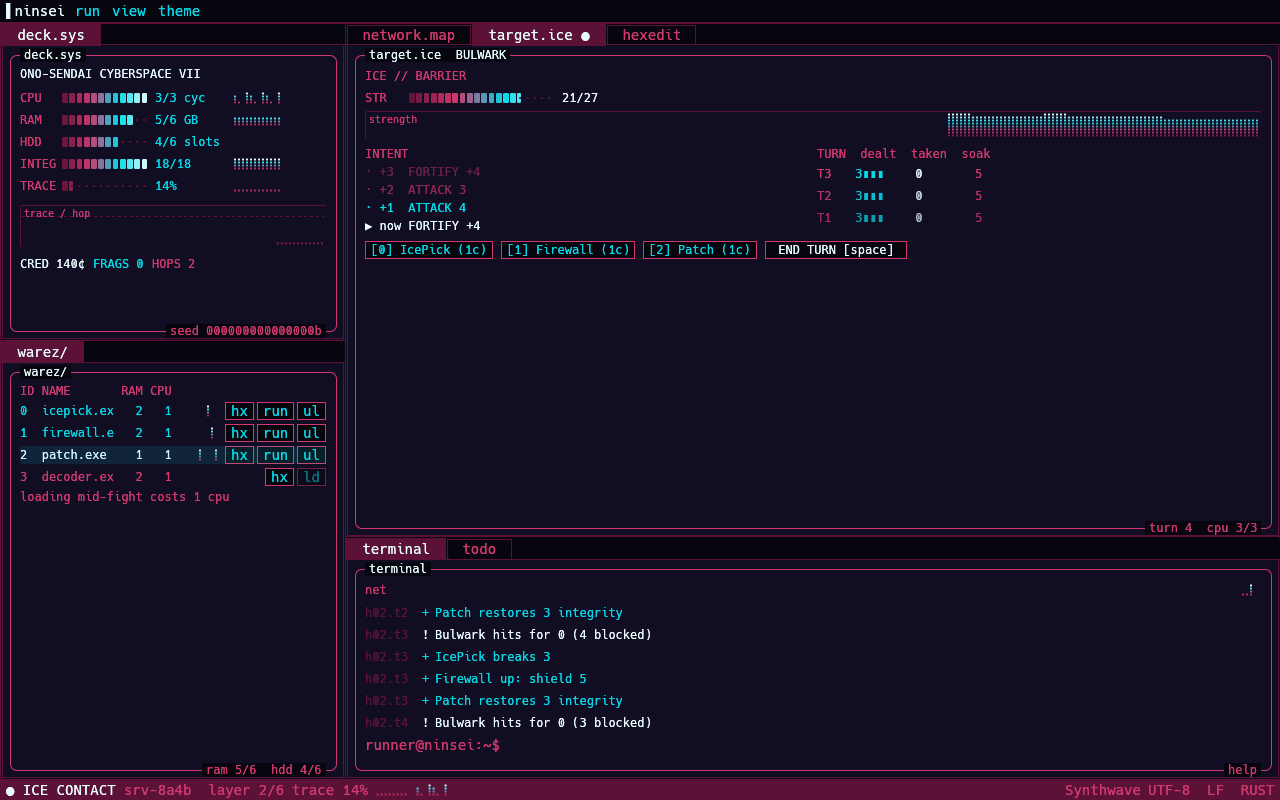
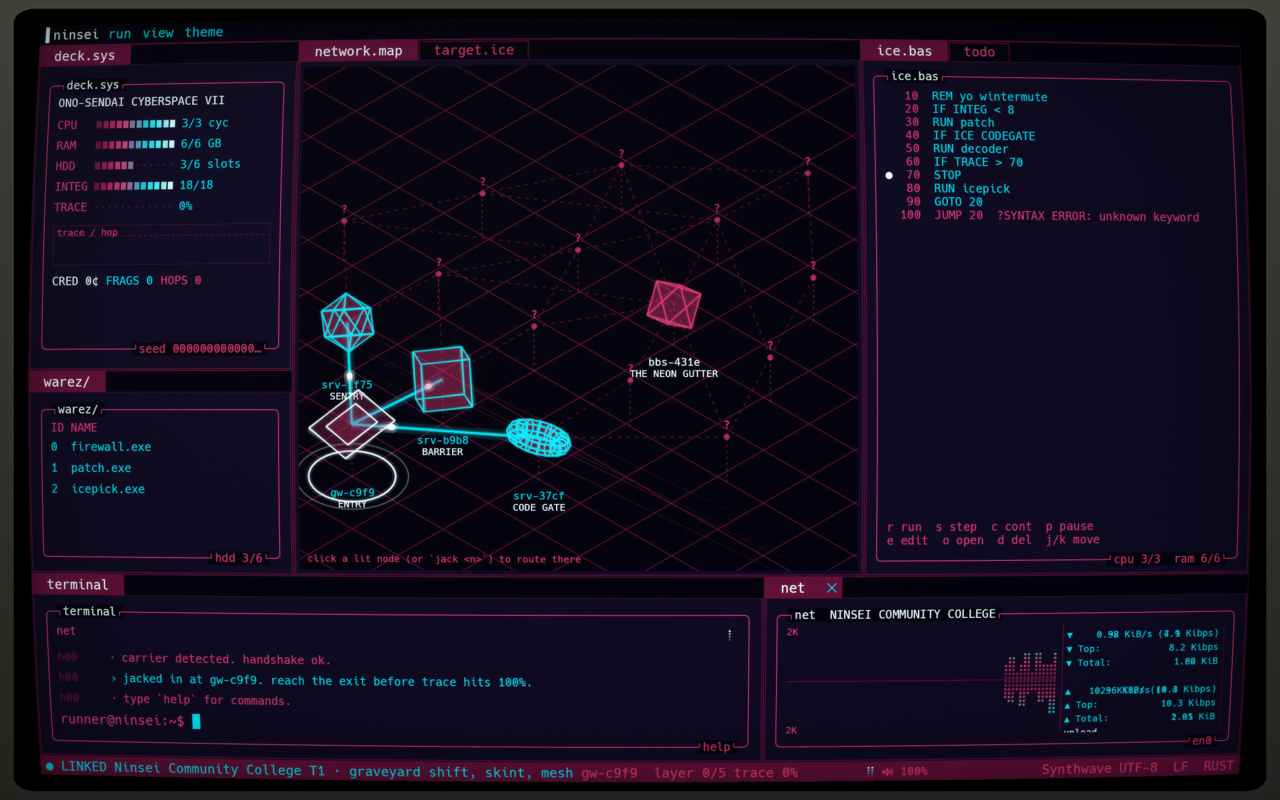
docs: step 6 — shots, review, docs
ice.bas in and out of a fight on amber and Synthwave; the deck.sys box gets more of the left column (the review's one fix); design.md marks the Ono-Sendai built, architecture.md says how the tile works.

diff --git a/crates/app/src/chrome.rs b/crates/app/src/chrome.rs
@@ -210,8 +210,8 @@ impl ChromeView for Classic {}
 mod btop_tiles {
     pub const LEFT: f32 = 0.22;
     pub const CENTRE_OF_REST: f32 = 0.59;
-    pub const OVER_TERMINAL: f32 = 0.72;
-    pub const DECK: f32 = 0.5;
+    pub const OVER_TERMINAL: f32 = 0.74;
+    pub const DECK: f32 = 0.62;
     pub const TERMINAL_OF_BOTTOM: f32 = 0.6;
 }
 

diff --git a/docs/architecture.md b/docs/architecture.md
@@ -88,12 +88,12 @@ Monitors and decks live in `data/hub/hardware.ron` (`HardwareDef::validate`); wh
 
 ## The run screen
 
-- **Chromes are plug-ins.** A firmware's `hardware::Chrome` picks how the run screen is dressed; `crates/app/src/chrome.rs` maps it to a `ChromeView` (`chrome::view`): one method per pane, plus tab titles, menus (arranged from shared `MenuPart`s), the status line, an optional bar under the panes, keys, an overlay and the default layout. Every method defaults to Classic, so a new chrome is a `Chrome` variant plus a `ChromeView` that overrides only what it changes. Never test the chrome in a pane; ask the view. `btop.rs` (`Chrome::Btop`), `suite.rs` (`Chrome::Suite`, the Hosaka) and `stack.rs` (`Chrome::Stack`, the Sense/Net: HyperCard, 1-bit; `ChromeView::one_bit` keeps glitches from splitting colour, `ChromeView::palette` folds the run to ink on paper, `ChromeView::dock_style` dresses the panels as HyperCard windows, and its **Script pane** is the **Script card**, on screen the whole run beside the ICE card: `ninsei_core::stack_fight::card` decides it (with `Card::fighting` and `Card::budget_words`: the budgets left this turn in a fight, the deck's limits a turn outside one, where Step, Run and Pause stay greyed) (the program's lines as `Block`s with their `Field`s, pop-up menus that list only the disk and number fields, the ▶ on the line about to run, which of Step, Run and Pause can be pressed, and the budgets in words), and `stack_fight::{set_field, add, insert_before, remove, swap}` turn an edit into one `Action::Program` with one line rewritten, so the card holds nothing of its own; `stack.rs` only draws it with the Liza kit (`popup_menu`, `text_field`, `dotted`, `push_button`), scrolling rows of their own heights a whole row at a time, a palette chip clicked or dragged (egui's drag and drop, `BlockKind` the payload) to add a block, a click on a block selecting it (view state in egui memory, by line number, dropped when the line goes) for the palette's move and clear boxes (`stack_fight::moved_to` says where a moved block lands, so the selection follows it), the Deck card's bars sized to the column (`bar_width`), and its keys through `ChromeView::keys` before the shared hotkeys: Enter presses Run, Esc pauses a running program and never closes anything) are the three so far; the suite's rules (sheet sorting, formulas, axes, work-order totals, dialogs via `suite::Watch`) live in core's `suite.rs`. The btop chrome (`crates/app/src/btop.rs`) keeps its timings in `btop::anim` and colours its gradients with `btop::ramp` (`faint → dim → fg → bright`); dot-graph maths is `history::plot`, tested in core; the font has no braille, so the app paints the dots. Both chromes lay their frames out on the kit's cells in their own 12pt type: btop's boxes (`btop::boxed`: the border through the outer cells, the title turned into the top edge `┐title┌` and a note turned up into the bottom one `┘note└`, both cut with `…` to fit, the body 10px and 12px inside the line as before, and always drawn, however small the box) meters (`Cells::gauge` with dotted unlit cells: a little thinner than the old meter and square-cornered, the kit's cell) and the warez table, whose NAME is as wide as the widest real name, dropping CPU before it would slice one; the suite's document window (`suite::window`: the kit's double frame with `[■]` and `[n]` set in its top edge, a heading row only for a document's own title, never repeating its tab, a 5px shadow, and the body always drawn), its status line and F-key legend (one-row kit sheets), its dialogs' bodies (a sheet, lines wrapped), its activity log (whole rows of cells through `ScrollArea::show_rows`, only the rows in view painted), and its spreadsheet, whose columns come from core's `suite::sheet_widths` (each its widest real value and its header with a sort arrow, a cell of padding either side), so nothing is cut at a clip rect.
+- **Chromes are plug-ins.** A firmware's `hardware::Chrome` picks how the run screen is dressed; `crates/app/src/chrome.rs` maps it to a `ChromeView` (`chrome::view`): one method per pane, plus tab titles, menus (arranged from shared `MenuPart`s), the status line, an optional bar under the panes, keys, an overlay and the default layout. Every method defaults to Classic, so a new chrome is a `Chrome` variant plus a `ChromeView` that overrides only what it changes. Never test the chrome in a pane; ask the view. `btop.rs` (`Chrome::Btop`), `suite.rs` (`Chrome::Suite`, the Hosaka) and `stack.rs` (`Chrome::Stack`, the Sense/Net: HyperCard, 1-bit; `ChromeView::one_bit` keeps glitches from splitting colour, `ChromeView::palette` folds the run to ink on paper, `ChromeView::dock_style` dresses the panels as HyperCard windows, and its **Script pane** is the **Script card**, on screen the whole run beside the ICE card: `ninsei_core::stack_fight::card` decides it (with `Card::fighting` and `Card::budget_words`: the budgets left this turn in a fight, the deck's limits a turn outside one, where Step, Run and Pause stay greyed) (the program's lines as `Block`s with their `Field`s, pop-up menus that list only the disk and number fields, the ▶ on the line about to run, which of Step, Run and Pause can be pressed, and the budgets in words), and `stack_fight::{set_field, add, insert_before, remove, swap}` turn an edit into one `Action::Program` with one line rewritten, so the card holds nothing of its own; `stack.rs` only draws it with the Liza kit (`popup_menu`, `text_field`, `dotted`, `push_button`), scrolling rows of their own heights a whole row at a time, a palette chip clicked or dragged (egui's drag and drop, `BlockKind` the payload) to add a block, a click on a block selecting it (view state in egui memory, by line number, dropped when the line goes) for the palette's move and clear boxes (`stack_fight::moved_to` says where a moved block lands, so the selection follows it), the Deck card's bars sized to the column (`bar_width`), and its keys through `ChromeView::keys` before the shared hotkeys: Enter presses Run, Esc pauses a running program and never closes anything) are the three so far; the suite's rules (sheet sorting, formulas, axes, work-order totals, dialogs via `suite::Watch`) live in core's `suite.rs`. The btop chrome's **Script pane** is the **`ice.bas` tile** (`btop::script`), on screen the whole run in the right column of its three-column default layout (deck.sys over warez/, the map, `ice.bas` in front of todo, over the terminal): `ninsei_core::btop_fight` decides it (`rows`: each line's number, text, gutter mark (`Gutter::Current` ▶, `Gutter::Stop` ●), dimming and fault, stray text last; `note`: `cpu 2/3  ram 4/6`, the deck's limits outside a fight; `keys`: which of run, step, continue and pause press; `home`/`moved`/`open_after` for the cursor and a new line's number, through `basic::Program::free_line_between`, which the Stack's drop shares; `retype`/`delete` turn an edit into one `Action::Program` with one line rewritten), and the app only draws it on the chrome's cells (`btop::boxed_lit`, its border lit while it has the keys) and routes keys. The tile's keyboard focus is an egui focus id (`script::id`, taken by a click, its arrows, Tab and Esc locked to it); its letters are read in `ChromeView::keys` before the shared hotkeys and only while it has the focus, and they and every typed character are taken out of the frame, so the terminal types whenever the tile isn't focused; `ChromeView::script_has_keys` tells the shared hotkeys a pane holds the keys without typing, so Space and the digits still work the hotbar. Retyping a line puts a `ninsei_term::widget::line` over that row under its own focus id (`script::edit_id`), which holds the keyboard like any typing (Enter commits, Esc or a click away puts the old text back). View state (cursor, first row in view, the line being retyped) is egui memory, by line number. The btop chrome (`crates/app/src/btop.rs`) keeps its timings in `btop::anim` and colours its gradients with `btop::ramp` (`faint → dim → fg → bright`); dot-graph maths is `history::plot`, tested in core; the font has no braille, so the app paints the dots. Both chromes lay their frames out on the kit's cells in their own 12pt type: btop's boxes (`btop::boxed`: the border through the outer cells, the title turned into the top edge `┐title┌` and a note turned up into the bottom one `┘note└`, both cut with `…` to fit, the body 10px and 12px inside the line as before, and always drawn, however small the box) meters (`Cells::gauge` with dotted unlit cells: a little thinner than the old meter and square-cornered, the kit's cell) and the warez table, whose NAME is as wide as the widest real name, dropping CPU before it would slice one; the suite's document window (`suite::window`: the kit's double frame with `[■]` and `[n]` set in its top edge, a heading row only for a document's own title, never repeating its tab, a 5px shadow, and the body always drawn), its status line and F-key legend (one-row kit sheets), its dialogs' bodies (a sheet, lines wrapped), its activity log (whole rows of cells through `ScrollArea::show_rows`, only the rows in view painted), and its spreadsheet, whose columns come from core's `suite::sheet_widths` (each its widest real value and its header with a sort arrow, a cell of padding either side), so nothing is cut at a clip rect.
 - **The sound pop-out is the chrome's.** Every run screen has one control for the sound: the level (`Save::volume`, a percentage, full by default) and the switch (`Save::sound`, the same one the System app shows). `crates/app/src/volume.rs` holds what's shared: `volume::Level` read from the save, `volume::Popup` (open, and what was set when it opened, so a Cancel can put it back), `Level::to` turning a change into `Request::Volume` and `Request::SoundOn`, and `volume::start`/`volume::keys`, which take the keyboard from the command line while it's open (the run's hotkeys, the chrome's keys and the terminal's focus all stand back; however it closes, the command line gets the keys back). It never opens over something that already has the keyboard (`App::modal_up`: a BBS, a conversation, a suite notice), and one of those coming up closes it. `volume::hit` names a control drawn in cells or pixels. The chrome opens and dresses it: a `MenuPart::Sound` item worded by `ChromeView::sound_item`, and `ChromeView::sound`, drawn over the overlay while it's open. The classic default is a small window with a slider; btop puts a bar-module speaker in its status line (`ChromeView::status_extra`, which gets a `FrameCx` and returns requests) that opens a box of whole cells over it; the suite has Edit > Sound..., a dialog with OK and Cancel, drawn by the same `suite::dialog` and `suite::buttons` as its notices; Liza has View > Control Panel..., the Mac's Speaker Volume slider (0 to 7) and a Sound box in a striped window (`liza::window_frame`). Notches map to the level through core's `hub::volume_notch` and `hub::notch_volume`. The pop-out only pushes requests; `main.rs` applies them to the save and the speaker.
 - **Panes are modular, and secondary panes are owned.** `panes::Tab` lists every pane: `Tab::CORE` are always there; `Tab::SECONDARY` pairs each extra pane with its id in `data/hub/panes.ron` (`PaneDef`). A secondary pane is available when bought in RIG (`Save::buy_pane`, `Save::panes`) or bundled with the firmware (`FirmwareDef::panes`); read it with `Save::has_pane`. A new pane is a variant, an id, a catalog entry and a renderer, dressed by each chrome (`ChromeView::net` is the pattern). `Tab::Script` is a core pane: the deck's program, on screen from a run's first frame, dressed by `ChromeView::script` (the classic dress is the terminal's `prog` listing until a deck designs its own; the Stack's is the Script card, below under Chromes). The two secondary panes so far are `net` (traffic, bundled with Cyberspace 7.0) and `vis` (`Tab::Vis`, sold only): what the speaker is playing, from `Panes::hear`, which calls `Speaker::listen` only when a vis pane is drawn (a tab behind another one never asks), and `vispane::alive` asks for frames only while something is heard. It never reads the game. The maths is core's `scope.rs` (a Hann-weighted radix-2 FFT into bars spaced evenly in pitch, levels in dB, and `ballistics`: bars jump up and fall at `FALL_PER_SEC`). `vispane.rs` has the shared parts: the trace, `bars` (asks for frames only while a bar is still falling, so silence is still), and `held` (numbers take a new reading every `HOLD_SECS`, so they never strobe). btop draws a box of cell columns (`Cells::meter_up`), the suite a SOUND LEVEL REPORT (a form and a band chart in dB), and the Stack chrome (the Sense/Net) a 1-bit Scope card with a dotted ink graticule. The default layout is the chrome's (`ChromeView::default_layout`) with the panes the player has; the player's layout is saved per firmware (keyed by maker and firmware id, so it follows a brand's models) in `Save::layouts` as opaque RON the app writes (`Save::set_layout`/`layout`, core never parses it). Anything that won't read back or lacks a core pane falls back to the default, and panes the player doesn't have are dropped (`parse_layout`).
 - **The network map has three views.** `crates/app/src/netmap.rs` holds what they share (fog, targets, tags, clicks, the hint) and hands off to `netmap_iso.rs` (wireframes over a grid), `netmap_draft.rs` (a flat technical drawing) or `netmap_paint.rs` (a 1-bit picture, nodes filled with patterns from `data/patterns.ron`, two colours only), picked by the deck's firmware (`Save::firmware_def(..).map`). Shapes, symbols and paint fills per node kind are data (`data/netmap.ron`, `MapStyleDef::validate`, paint fills checked against the patterns); meshes, the isometric camera (`Iso`) and node placement (`netview::flat_layout`) live in core (`netview.rs`) and are tested there. Map colours come from the palette: grid `faint`, wires `fg`, fills `dim`, highlights `bright`. Map animation (derez bursts, the jack-in sweep, trace pressure, hover) lives in `netmap::Anim`, remembered in egui's memory rather than the game, with every timing in `netmap::anim`; the hop trail comes from `Game::travelled`.
 - **Fights have a view; the preview is the rule.** `Game::preview(slot)` (`crates/core/src/fight.rs`) says what running a program would do now or why it can't, and `Action::Run` resolves through it, so a hint can never disagree with what happens. Nothing loads: every program on the HDD can run (`Slot` has no loaded flag, warez have no RAM cost, binary byte 07 is reserved, and the hex editor's budget is `BUDGET_PER_CPU * cpu + BUDGET_PER_OPT * opt`).
-- **Fights run a program** (design: `docs/design.md`, "Fights: the deck runs a program"). The language is `crates/core/src/basic.rs`: `basic::parse` turns text into a `Program` of numbered `Line`s (`Stmt::Run`, `If(Cond)`, `Goto`, `Stop`, `Rem`, and `Bad` for a line that doesn't parse, kept and skipped so a typo never halts a fight; `Program::fault` names what's wrong, a GOTO to nowhere included; text with no line number is `Program::stray`, kept as typed and never run), `Program::text` prints it back, `set_line`/`remove` edit it, and `basic::names` says what a program name in a RUN or HAVE matches (name, file name or factory id), for fights and validation alike; it knows nothing of a fight. The deck holds one program: `Save::program` (`None` until a run ends: the starting kit's, `StartsDef::program`, where a kit without one ships the default kit's, read with `Save::program_text`; `Data::validate` rejects a kit program with a bad line or a RUN or HAVE naming no warez through `hub::program_fault`), handed to the run as `Kit::program`, parsed into `Game::program` and written back by `Save::record` however the run ended. `Game::exec` (`Exec`: an `ExecState` of `Paused`, `Running` or `Stopped(line)`, the line about to run, and this turn's pass as `Step`s) is reset at each fight's start with the cursor on the first line. `Action::Step` runs one pass (`Game::pass`): from the top (or past a STOP) until the program ends, a STOP, the cycles run out or `Combat::ifs` (one GB of `deck.ram_max` per IF evaluated, reset each turn) is empty; each RUN finds its slot by name (`Game::slot_named`), asks `preview`, and is applied as `Action::Run`, so history and cues hear each one; then, unless it stopped or hung, `Action::EndTurn`. Each step is said in the log as it happens (`Game::step_text`; a RUN says nothing more than the program's own line), so the pass reads before what the ICE does after it. A pass that comes back to a line without running anything is a hang: `?BREAK IN <line>`, the debugger has the turn and the turn doesn't end. A false IF skips its line, and a skipped IF skips its own (two IFs in a row are an AND). `Action::Play` sets `Running` and runs a pass, and the app's frame loop plays a `Running` program a pass every `PASS_SECS` (`drive_program` in `main.rs`); `Pause` hands the turn back; after a STOP (`Stopped(line)`) the next Step or Play carries on past it in the same turn; `Program(text)` replaces the program at any time (after a STOP it carries on from the first line past it), and the hotbar's `Action::Run` works whatever the state. Views read `Game::program_view` (each line's text, the current line, STOP and fault marks, the budgets left, the pass) and `Game::step_text` (a pass's step as the OS says it, a sentence per line), and `Game::ifs_left` for the RAM meters. The run terminal drives it (`command.rs`: `prog` lists, through `command::listing`, `prog <n> <line>` types a line in, `prog <n>` deletes it, and `step`, `play` and `pause` are the actions). The Sense/Net's fight screen is the Stack chrome's Script pane (the Script card, under Chromes); until another deck has its screen, its chrome keeps the hotbar fight. The wireframe's damage is core too (`fight::broken`, `edges_left`, `break_order`) and tested there. The Ono-Sendai's fight view (`crates/app/src/fightview.rs`) is what the btop chrome's map pane shows in `Phase::Combat` (`ChromeView::network`; `ChromeView::combat_tab` brings it forward). It only reads the game, keeps its animation state in egui memory and its timings in `fightview::anim`, and runs programs through `Panes::act`.
+- **Fights run a program** (design: `docs/design.md`, "Fights: the deck runs a program"). The language is `crates/core/src/basic.rs`: `basic::parse` turns text into a `Program` of numbered `Line`s (`Stmt::Run`, `If(Cond)`, `Goto`, `Stop`, `Rem`, and `Bad` for a line that doesn't parse, kept and skipped so a typo never halts a fight; `Program::fault` names what's wrong, a GOTO to nowhere included; text with no line number is `Program::stray`, kept as typed and never run), `Program::text` prints it back, `set_line`/`remove` edit it, and `basic::names` says what a program name in a RUN or HAVE matches (name, file name or factory id), for fights and validation alike; it knows nothing of a fight. The deck holds one program: `Save::program` (`None` until a run ends: the starting kit's, `StartsDef::program`, where a kit without one ships the default kit's, read with `Save::program_text`; `Data::validate` rejects a kit program with a bad line or a RUN or HAVE naming no warez through `hub::program_fault`), handed to the run as `Kit::program`, parsed into `Game::program` and written back by `Save::record` however the run ended. `Game::exec` (`Exec`: an `ExecState` of `Paused`, `Running` or `Stopped(line)`, the line about to run, and this turn's pass as `Step`s) is reset at each fight's start with the cursor on the first line. `Action::Step` runs one pass (`Game::pass`): from the top (or past a STOP) until the program ends, a STOP, the cycles run out or `Combat::ifs` (one GB of `deck.ram_max` per IF evaluated, reset each turn) is empty; each RUN finds its slot by name (`Game::slot_named`), asks `preview`, and is applied as `Action::Run`, so history and cues hear each one; then, unless it stopped or hung, `Action::EndTurn`. Each step is said in the log as it happens (`Game::step_text`; a RUN says nothing more than the program's own line), so the pass reads before what the ICE does after it. A pass that comes back to a line without running anything is a hang: `?BREAK IN <line>`, the debugger has the turn and the turn doesn't end. A false IF skips its line, and a skipped IF skips its own (two IFs in a row are an AND). `Action::Play` sets `Running` and runs a pass, and the app's frame loop plays a `Running` program a pass every `PASS_SECS` (`drive_program` in `main.rs`); `Pause` hands the turn back; after a STOP (`Stopped(line)`) the next Step or Play carries on past it in the same turn; `Program(text)` replaces the program at any time (after a STOP it carries on from the first line past it), and the hotbar's `Action::Run` works whatever the state. Views read `Game::program_view` (each line's text, the current line, STOP and fault marks, the budgets left, the pass) and `Game::step_text` (a pass's step as the OS says it, a sentence per line), and `Game::ifs_left` for the RAM meters. The run terminal drives it (`command.rs`: `prog` lists, through `command::listing`, `prog <n> <line>` types a line in, `prog <n>` deletes it, and `step`, `play` and `pause` are the actions). The Sense/Net's fight screen is the Stack chrome's Script pane (the Script card, under Chromes) and the Ono-Sendai's is the btop chrome's (the `ice.bas` tile, under Chromes; the terminal is its prompt); until another deck has its screen, its chrome keeps the hotbar fight. The wireframe's damage is core too (`fight::broken`, `edges_left`, `break_order`) and tested there. The Ono-Sendai's fight view (`crates/app/src/fightview.rs`) is what the btop chrome's map pane shows in `Phase::Combat` (`ChromeView::network`; `ChromeView::combat_tab` brings it forward). It only reads the game, keeps its animation state in egui memory and its timings in `fightview::anim`, and runs programs through `Panes::act`.
 
 ## Terminals
 

diff --git a/docs/design.md b/docs/design.md
@@ -37,7 +37,7 @@ deck ─> firmware ─────┘
 | `sounds` | `sensenet`: square beeps, a warm chord, a gentle "boing", and a run soundtrack per network tier like a 1980s Mac adventure game: square tunes over triangle basses in major keys, gentle at tier 1 and uneasy at tier 3. As the trace climbs, a quiet triangle part drops out (the countermelody, the offbeat chords or the held line in thirds) and then the tempo rises ✅ | `ono`: harsh squares, noise bursts, chiptune arpeggios, and a looping chiptune soundtrack per network tier that thins out and speeds up as the trace climbs ✅ | `hosaka`: soft sine chimes, a polite ding, a tidy shutdown tune, and hold music for the runs: a tune per network tier in what an office plays while you wait (sine tunes over a bossa or walking bass, major sevenths, a polite tempo). Tier 1 is the lobby, tier 2 the department and tier 3 the executive floor, still polite but colder. As the trace climbs, the calm goes wrong while staying polite: the chords or the tune drop out and it turns hollow, then the hold music hurries ✅ |
 | volume | View > Control Panel...: the Mac's Speaker Volume slider (0 to 7) and a Sound check box, in a striped window with a close box ✅ | a speaker on the status line, as a bar module shows it, that opens a btop box over it: a meter, `- 70% +` cut into the edge, `[x] mute` ✅ | Edit > Sound...: a dialog with a Volume bar, a Mute box, OK and Cancel ✅ |
 | vis pane | a Scope card: a 1-bit oscilloscope in a field ✅ | a btop box: the spectrum in columns of cells along the gradient, the level in its edge ✅ | SOUNDLVL.RPT: a sound level report, level and peak on a form, the level by band as a bar chart ✅ |
-| fights | the ICE card (the ICE, its hotbar, End Turn) in the centre, and the deck's program as a stack of blocks with Step, Run, Pause in the Script pane beside it ✅ (see *Fights*) | the map dives into the node: the ICE as a wireframe over a horizon grid, a program hotbar with previews ✅; next: `ice.bas` and a `gdb` box under the wireframe | an incident report with a strength chart and an agenda ✅; next: a Turbo Debugger Module window and Watches |
+| fights | the ICE card (the ICE, its hotbar, End Turn) in the centre, and the deck's program as a stack of blocks with Step, Run, Pause in the Script pane beside it ✅ (see *Fights*) | the map dives into the node: the ICE as a wireframe over a horizon grid, a program hotbar with previews ✅, and the deck's program in the `ice.bas` tile beside it, debugged from its keys and the terminal ✅ (see *Fights*) | an incident report with a strength chart and an agenda ✅; next: a Turbo Debugger Module window and Watches |
 | damage | 1-bit glitches: tearing and noise, never an RGB split ✅ (pattern smears and inverted rows: an idea) | screen glitches: tearing, RGB split, corrupted text ✅ | the same, plus corporate error dialogs (idea below) |
 | add-ons | Alarm Clock, a Calculator desk accessory under the eye, a desktop pattern, MultiFinder ✅ |  |  |
 | games | a window like any program's, titled by the copy's label (`Nibbler`, `NIBBLER [2K4]`), in Liza's two colours: the field in its frame, walls and covered squares in the 50% gray pattern, blocks outlined; a **Games** menu before Special lists each copy you own ✅ | a tile, labelled in lower case like the others (`blox [phs]`), from the launcher or `run blox`; the leader's keys stay the desktop's ✅ | a window titled with its version (`Minefield 1.1`), its icon among the others ✅ |
@@ -152,9 +152,9 @@ The two decks are a start. Each new one should be a new point of view, not a pal
 
 ## Fights: the deck runs a program
 
-*Designed 2026-11-07 (task 141.1, dossier at the task note). Built by 141.2 (core), 141.4–141.6 (one screen per deck) and 141.3 (ICE that answers back). Until a deck has its screen, its chrome keeps the hotbar fight. ✅ marks what's built: the Sense/Net's Script card (141.4).*
+*Designed 2026-11-07 (task 141.1, dossier at the task note). Built by 141.2 (core), 141.4–141.6 (one screen per deck) and 141.3 (ICE that answers back). Until a deck has its screen, its chrome keeps the hotbar fight. ✅ marks what's built: the Sense/Net's Script card (141.4) and the Ono-Sendai's `ice.bas` tile (141.5).*
 
-**The Script is a pane, not part of the fight.** It is on screen for the whole run, in its own box, so the program is something you look after between fights as well as during one; Step, Run and Pause only press with ICE in front. Every chrome dresses the one Script pane (until a deck designs its own, it's the terminal's `prog` listing); 141.5 and 141.6 design its dress, not where it lives. The Stack's default layout is three columns over the Message box: the Deck over the Programs on the left (narrow), the Card with ICE and Hex in the centre (widest), the Script in front of To Do on the right (medium; To Do is the least used pane, so it sits behind).
+**The Script is a pane, not part of the fight.** It is on screen for the whole run, in its own box, so the program is something you look after between fights as well as during one; Step, Run and Pause only press with ICE in front. Every chrome dresses the one Script pane (until a deck designs its own, it's the terminal's `prog` listing); 141.5 and 141.6 design its dress, not where it lives. The Stack's default layout is three columns over the Message box: the Deck over the Programs on the left (narrow), the Card with ICE and Hex in the centre (widest), the Script in front of To Do on the right (medium; To Do is the least used pane, so it sits behind). The btop chrome starts in the same shape over the terminal: deck.sys over warez/, the map (the fight view in a fight), `ice.bas` in front of todo.
 
 **The idea.** You don't fight ICE by hand. You wrote something that does, and you watch it work. Each deck holds **one program**, kept between runs like the loadout, and every fight opens with it loaded and the cursor on Run. The run screen is already an IDE, so the fight runs like a debugger: Run plays until a STOP, Step plays one pass, Pause hands you the turn (the hotbar is the manual override), Continue gives it back. The program is edited in place, mid-fight if you like; what you leave is what the deck keeps. No window opens, nothing is saved by hand, and there is no library in version 1.
 
@@ -197,8 +197,8 @@ One pass through the program is one turn: start at the first line and run until 
 | | Sense/Net | Ono-Sendai | Hosaka |
 |---|---|---|---|
 | reference | HyperCard 1.2's button script editor and the Home stack, 1-bit | gdb's TUI in a btop box, with the C64 screen editor's way of retyping a line | Turbo Debugger 2.0: the Module window, Watches, F-keys |
-| the program | ✅ a **stack of operator blocks** (RUN, IF, GOTO, STOP) dragged in from a palette row, each with fields for its parameters; a program menu lists only the disk; the ▶ in the gutter is the line about to run; a click selects a block (a dotted marquee) and the palette's ▲ ▼ X move or clear it, as HyperCard's Objects did, so a row is only the block and fits a ~340px column | `ice.bas`: the listing in a box, the current line lit, a STOP marked with a dot in the gutter, the budgets cut into the bottom edge | `PROC-7.BAS` in a Module window: the current line in inverse, a STOP marked with a block in the gutter, the budgets in the bottom edge |
-| the debugger | the button row under the palette row: Step, Run, Pause, as rounded Mac buttons | a `gdb` box with this pass's trace and a prompt; `r` run, `s` step, `c` continue, `p` pause, `e` edit a line, space hotbar | a Watches window (turn, CPU, IFs, integrity, NEXT, the ICE, the last line's effect); F1 Help, F2 Edit, F4 Run to STOP, F7 Step, F8 Pause, F9 Run, F10 Hotbar (never F5, F6, F11, F12) |
+| the program | ✅ a **stack of operator blocks** (RUN, IF, GOTO, STOP) dragged in from a palette row, each with fields for its parameters; a program menu lists only the disk; the ▶ in the gutter is the line about to run; a click selects a block (a dotted marquee) and the palette's ▲ ▼ X move or clear it, as HyperCard's Objects did, so a row is only the block and fits a ~340px column | ✅ `ice.bas`: the listing in a btop box on whole cells, the line about to run lit with ▶ in the gutter, a STOP's ●, a bad line dim with its fault after it, the cursor in inverse while the tile has the keys, `cpu 2/3  ram 4/6` cut into the bottom edge (the deck's limits outside a fight); a line is retyped where it stands, C64 style, with the terminal's line editor; the keys at the tile's foot, lit while they press | `PROC-7.BAS` in a Module window: the current line in inverse, a STOP marked with a block in the gutter, the budgets in the bottom edge |
+| the debugger | the button row under the palette row: Step, Run, Pause, as rounded Mac buttons | ✅ the terminal is the prompt (the pass prints there; `step`, `play`, `pause`, `prog` are its commands), no box of its own; with the tile focused (a click; Esc gives the keys back): `r` run, `s` step, `c` continue, `p` pause, `j`/`k` or arrows move, `e`/Enter retype, `o` open a line, `d` delete; Space and the digits stay the hotbar's; the terminal types whenever the tile isn't focused | a Watches window (turn, CPU, IFs, integrity, NEXT, the ICE, the last line's effect); F1 Help, F2 Edit, F4 Run to STOP, F7 Step, F8 Pause, F9 Run, F10 Hotbar (never F5, F6, F11, F12) |
 | the trace | the Message box, a sentence per line | a terminal line | an activity-log row with a reference number |
 
 **Set aside.** `SHIELD`, `SCRUB` and `BEST BREAKER` as keywords (the warez are the verbs); a breakpoints pane (STOP is a line; a gutter mark is a view of it, never a second mechanism); downloaded editor and debugger (they are the deck's own software, dressed per chrome; "tools are downloaded" stays about the desktop's apps); a program library (deferred); a pure deckbuilder or puzzle fights without automation.

diff --git a/README.md b/README.md
@@ -196,6 +196,12 @@ On the **Ono-Sendai** the panes are dressed btop-style: boxed with their titles 
 
 target.ice keeps the numbers view (intent and damage waterfalls).
 
+The panes start in three columns over the terminal: deck.sys over warez/ on the left, the map (and the fight) in the centre, and **ice.bas** in front of todo on the right. ice.bas is your deck's program the whole run, listed like a debugger's source window: the line about to run lit with ▶, a STOP marked ●, a line that won't run dimmed with the interpreter's complaint after it, and this turn's cpu and ram cut into the bottom edge. Click it (its border lights) and its keys are live: `r` run, `s` step, `c` continue after a STOP, `p` pause, `j`/`k` or the arrows move the cursor, `e` or Enter retypes the line where it stands (Enter keeps it, Esc puts it back), `o` opens a new numbered line under the cursor, `d` deletes one; Space and the digits still work the hotbar, and Esc hands the keys back. Double-click a line to retype it. The terminal is the prompt: each pass prints there a line at a time, and `step`, `play`, `pause` and `prog` work as on every deck.
+
+![a fight with ice.bas, synthwave](docs/shots/btop-fight-synthwave.png)
+![a fight with ice.bas, amber](docs/shots/btop-fight-amber.png)
+![ice.bas with the keys, amber](docs/shots/btop-script-amber.png)
+
 ![diving into the node](docs/shots/fight-dive.png)
 ![previewing a program](docs/shots/fight-preview.png)
 ![a hit, on amber](docs/shots/fight-amber.png)
